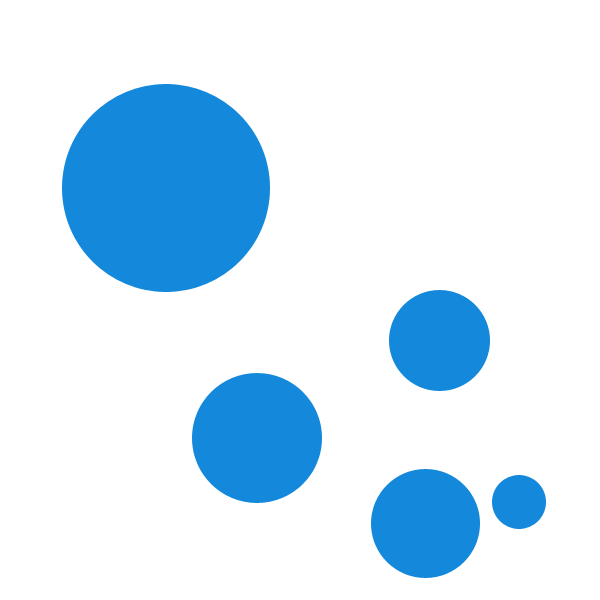
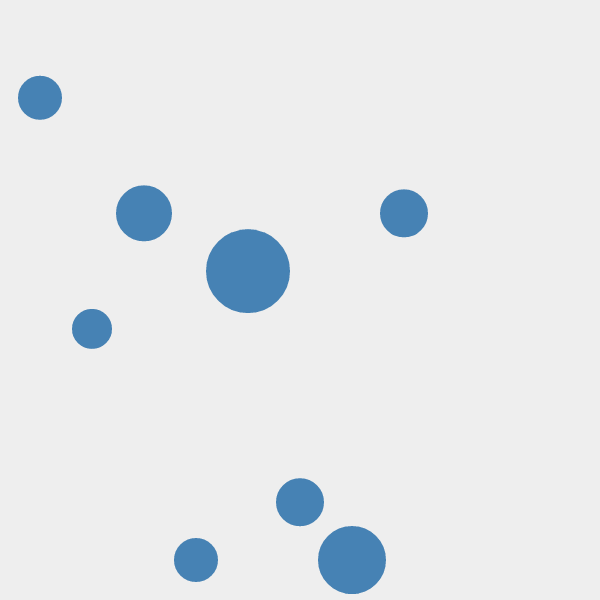
use d3.scales

diff --git a/js/vis.js b/js/vis.js
@@ -2,22 +2,32 @@ $(document).ready(function() {
   var w = 600,
       h = 600;
 
+  var radius = d3.scale.linear().range([14, 30]);
+  var y = d3.scale.linear().range([40, 560]);
+  var x = d3.scale.linear().range([40, 560]);
+
   var vis = d3.select("#vis").append("svg")
     .attr("id", "svg-vis")
     .attr("width", w)
     .attr("height", h);
 
-  render_vis = function(csv) {
+  function render_vis(csv) {
+    radius.domain([0, d3.max(csv, function(d) { return d.r; })]);
+    y.domain([0, d3.max(csv, function(d) { return d.y; })]);
+    x.domain([0, csv.length]);
+
+
     vis.selectAll("circle")
     .data(csv).enter()
     .append("circle")
-    .attr("r",function(d) { return d.r * 3; })
-    .attr("cy", function(d) { return (d.y+1) * 3; })
-    .attr("cx", function(d,i) { return (i + 1) * 40; })
-    .attr("title", function(d) { return "Im a circle! " + d.x; })
+    .attr("r", function(d) { return radius(d.r);})
+    .attr("cy", function(d) { return y(d.y); })
+    .attr("cx", function(d,i) { return x(i); })
     .attr("fill", "steelblue")
-    .call(d3.behavior.drag().on("drag", move).on("dragstart", dragstart).on("dragend", dragend));
-  }
+    .call(d3.behavior.drag().on("drag", move)
+        .on("dragstart", dragstart)
+        .on("dragend", dragend));
+  };
 
   function dragstart() {
     d3.select(this).attr("fill", "red");
@@ -26,7 +36,6 @@ $(document).ready(function() {
   function dragend() {
     d3.select(this).attr("fill", "steelblue");
   };
-
 
   function move() {
     var dragTarget = d3.select(this);
